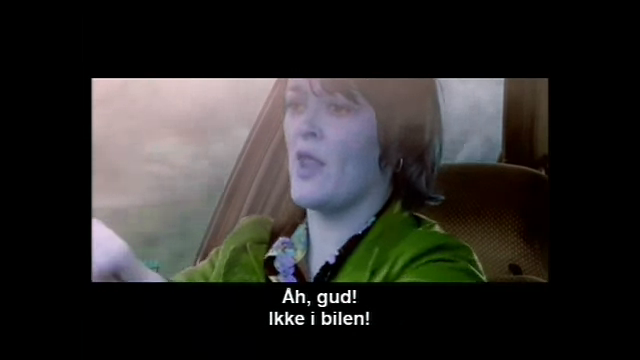
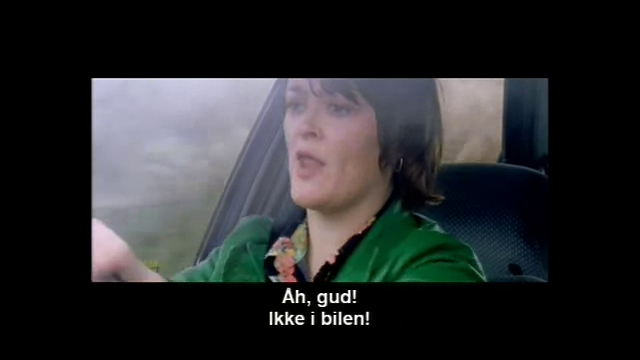
nu er billederne i korrekte farver

diff --git a/library/processing/play_video.py b/library/processing/play_video.py
@@ -46,8 +46,9 @@ def capture_video(translation_language, max_frame):
 
         if (count_frames % 50 == 0):
             cv2.imshow('frame', frame) # Show the fram on the screen.
-            im = Image.fromarray(frame)
-            im.save("data/output/frames/" +str(count_frames)+ "_1blue" +".png") # billedet gemmes i et andet 3-farve format så rød bliver blå
+            #im = Image.fromarray(frame)
+            #im.save("data/output/frames/" +str(count_frames)+ "_1blue" +".png") # billedet gemmes i et andet 3-farve format så rød bliver blå
+            cv2.imwrite("data/output/frames/" +str(count_frames)+ "_1blue" +".png", frame)
 
             speak_from_frame(frame, count_frames, translation_language) 
 

diff --git a/library/translation_and_speech/translate.py b/library/translation_and_speech/translate.py
@@ -20,7 +20,7 @@ def run_translate(subtitle_from_movie, translation_language):
     translation = translate_client.translate(
         text,
         target_language=target)
-
+        
     # Write translated text to file.
     with open(Path("data/output/subtitles/translated_subtitles.txt"), "a+", encoding="utf-8") as file:
         subtitle_format = format(text)
